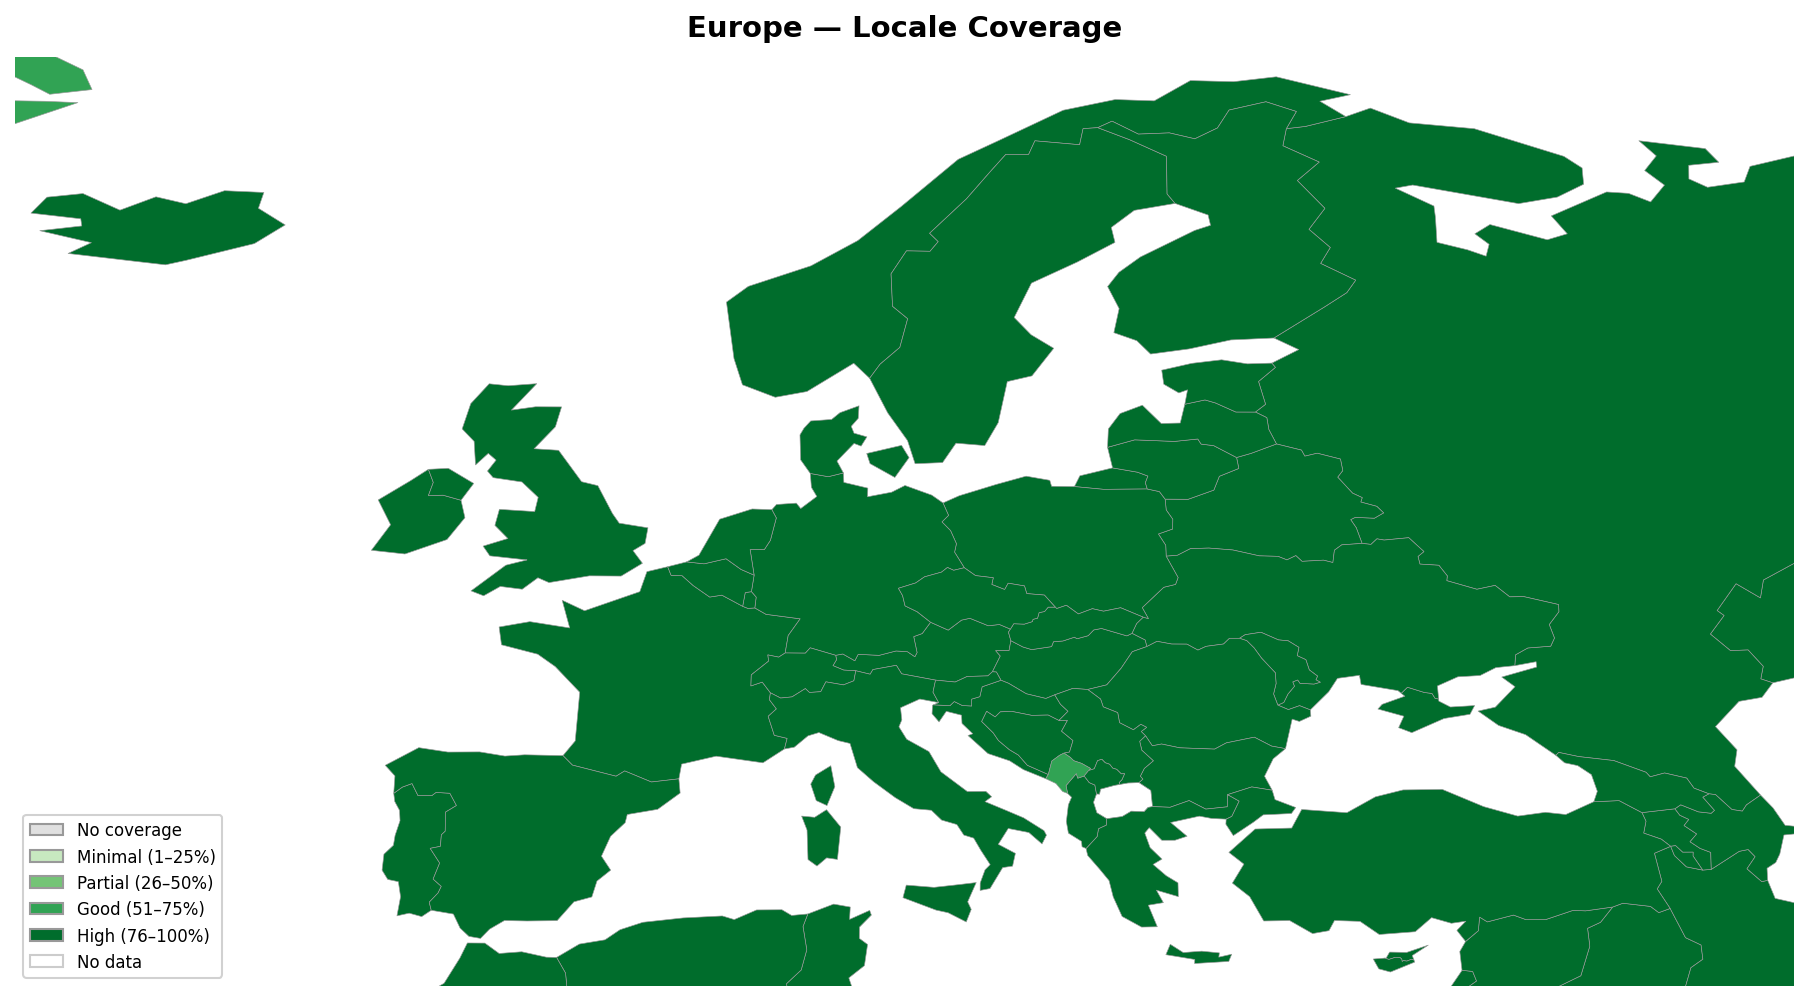
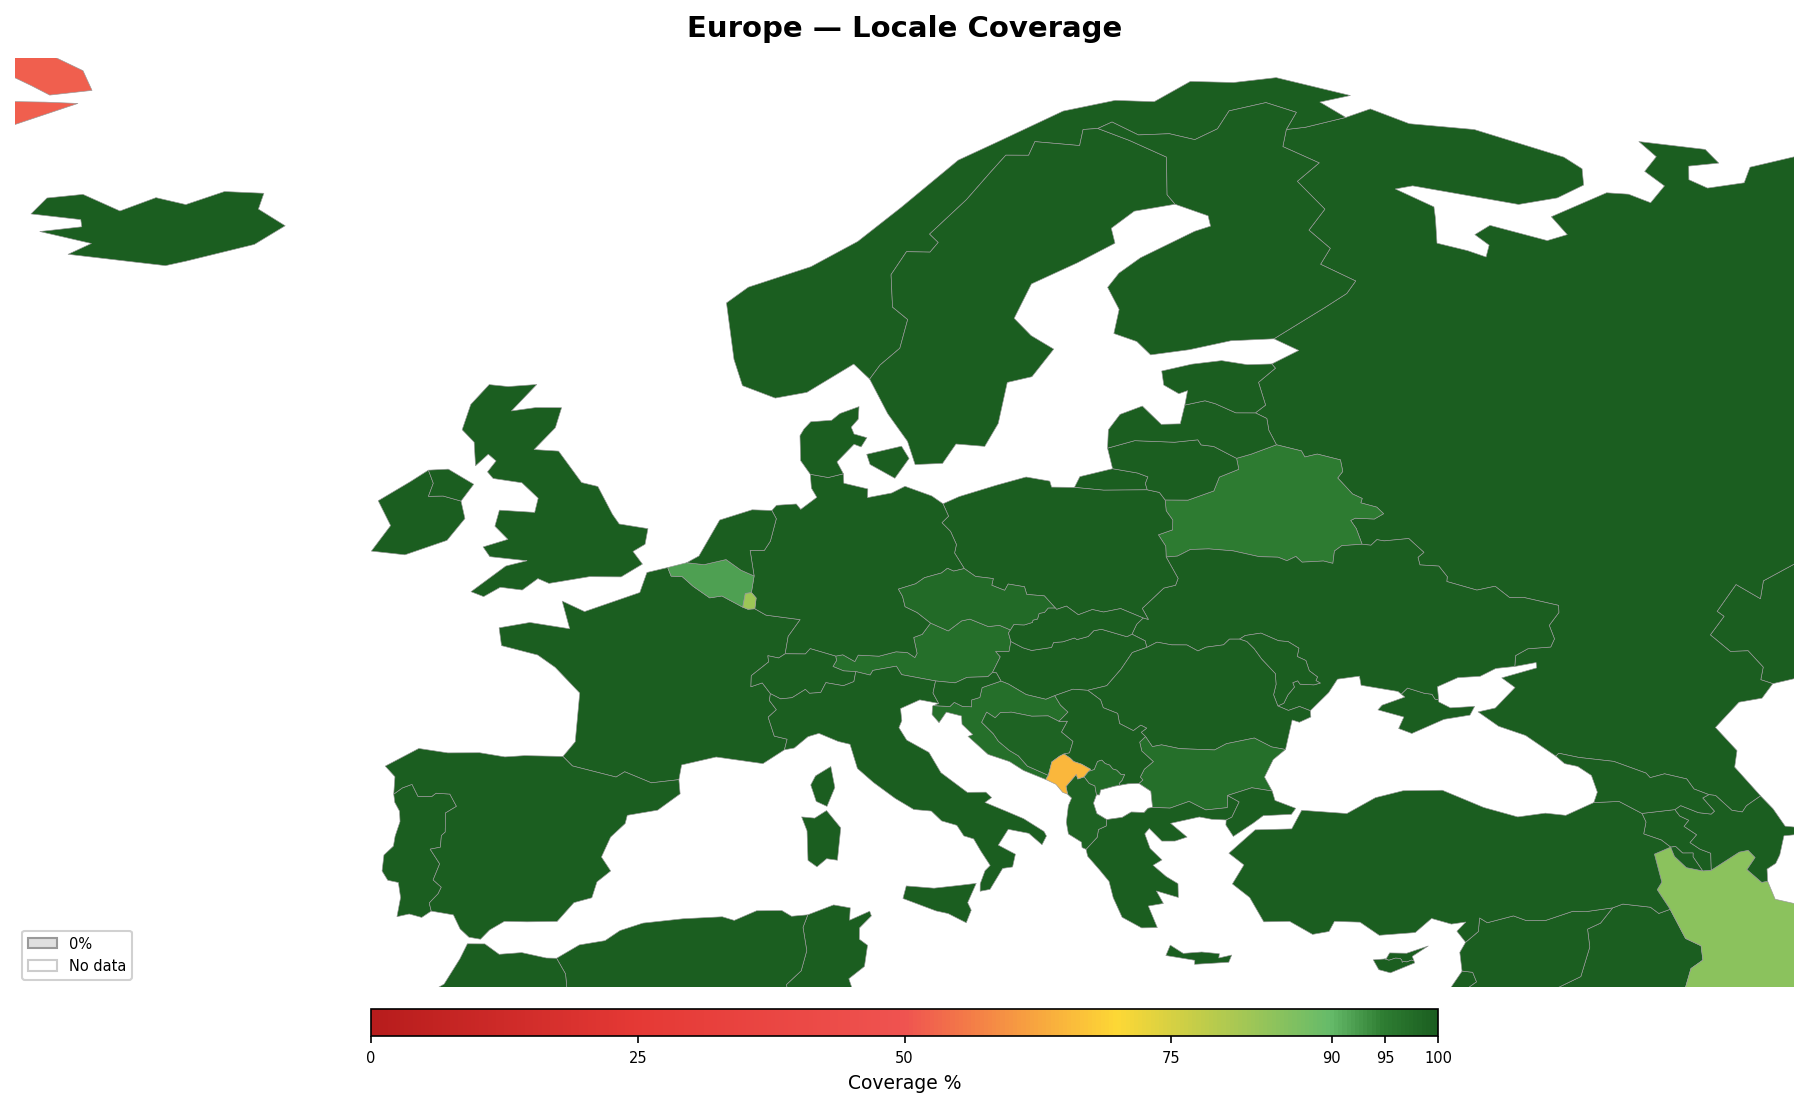
Switch to continuous red-to-green color scale for coverage maps
Replaces the 5-bin discrete scheme with a continuous gradient that
gives more detail in the high percentages: red shades for <50%,
red-to-green gradient for 50-90%, green shades for 90-100%.
Adds a colorbar legend showing the full scale.

diff --git a/tools/geography/generate.py b/tools/geography/generate.py
@@ -42,17 +42,24 @@ _ISO_OVERRIDES: dict[str, str] = {
 }
 
 # ---------------------------------------------------------------------------
-# Color scheme (5-bin discrete)
+# Color scheme — continuous gradient
+#
+#   0–50%  shades of red (dark → light)
+#  50–90%  red-to-green gradient
+#  90–100% shades of green (light → dark)
 # ---------------------------------------------------------------------------
 
-_BINS = [
-    (0.00, 0.00, "#e0e0e0", "No coverage"),
-    (0.01, 0.25, "#c7e9c0", "Minimal (1–25%)"),
-    (0.26, 0.50, "#74c476", "Partial (26–50%)"),
-    (0.51, 0.75, "#31a354", "Good (51–75%)"),
-    (0.76, 1.01, "#006d2c", "High (76–100%)"),
+_CMAP_STOPS = [
+    (0.00, "#b71c1c"),  # dark red
+    (0.25, "#e53935"),  # medium red
+    (0.50, "#ef5350"),  # light red
+    (0.70, "#fdd835"),  # yellow
+    (0.90, "#66bb6a"),  # light green
+    (0.95, "#2e7d32"),  # medium green
+    (1.00, "#1b5e20"),  # dark green
 ]
 
+_ZERO_COLOR = "#e0e0e0"  # gray for exactly 0%
 _NO_DATA_COLOR = "#ffffff"
 
 # ---------------------------------------------------------------------------
@@ -140,12 +147,26 @@ def _coverage(country: dict, supported: set[str]) -> float:
     return min(supported_share / max(total_share, 1.0), 1.0)
 
 
-def _coverage_bin(value: float) -> tuple[str, str]:
-    """Return (color, label) for a coverage value."""
-    for lo, hi, color, label in _BINS:
-        if lo <= value <= hi:
-            return color, label
-    return _BINS[-1][2], _BINS[-1][3]
+def _build_cmap():
+    """Build a LinearSegmentedColormap from _CMAP_STOPS."""
+    from matplotlib.colors import LinearSegmentedColormap
+    positions = [s[0] for s in _CMAP_STOPS]
+    hex_colors = [s[1] for s in _CMAP_STOPS]
+    return LinearSegmentedColormap.from_list(
+        "coverage", list(zip(positions, hex_colors)), N=256
+    )
+
+
+def _coverage_color(value: float) -> str:
+    """Return a hex color for a coverage value using the continuous scale."""
+    if value == 0.0:
+        return _ZERO_COLOR
+    import matplotlib
+    matplotlib.use("Agg")
+    from matplotlib.colors import rgb2hex
+    cmap = _build_cmap()
+    rgba = cmap(value)
+    return rgb2hex(rgba)
 
 
 # ---------------------------------------------------------------------------
@@ -204,8 +225,10 @@ def _render_map(
     matplotlib.use("Agg")
     import matplotlib.pyplot as plt
     from matplotlib.patches import Patch
-    import numpy as np
+    from matplotlib.colors import Normalize
+    from matplotlib.cm import ScalarMappable
 
+    cmap = _build_cmap()
     fig, ax = plt.subplots(1, 1, figsize=figsize, facecolor="white")
 
     # Draw countries with no data (white)
@@ -213,34 +236,40 @@ def _render_map(
     if not no_data.empty:
         no_data.plot(ax=ax, color=_NO_DATA_COLOR, edgecolor="#cccccc", linewidth=0.3)
 
-    # Draw countries by coverage bin
+    # Draw countries by continuous coverage color
     has_data = gdf[gdf["coverage"].notna()].copy()
     if not has_data.empty:
-        colors = []
-        for val in has_data["coverage"]:
-            color, _ = _coverage_bin(val)
-            colors.append(color)
-        has_data = has_data.copy()
-        has_data["fill_color"] = colors
-        has_data.plot(ax=ax, color=has_data["fill_color"], edgecolor="#999999", linewidth=0.3)
+        colors = [
+            _ZERO_COLOR if val == 0.0 else cmap(val)
+            for val in has_data["coverage"]
+        ]
+        has_data.plot(ax=ax, color=colors, edgecolor="#999999", linewidth=0.3)
 
     # Zoom to bounds
     if bounds:
         ax.set_xlim(bounds[0], bounds[1])
         ax.set_ylim(bounds[2], bounds[3])
 
-    # Legend
-    legend_elements = [
-        Patch(facecolor=color, edgecolor="#999999", label=label)
-        for _, _, color, label in _BINS
-    ]
-    legend_elements.append(
-        Patch(facecolor=_NO_DATA_COLOR, edgecolor="#cccccc", label="No data")
+    # Colorbar
+    sm = ScalarMappable(cmap=cmap, norm=Normalize(vmin=0, vmax=100))
+    sm.set_array([])
+    cbar = fig.colorbar(
+        sm, ax=ax, orientation="horizontal", fraction=0.03, pad=0.02,
+        aspect=40, shrink=0.6,
     )
+    cbar.set_label("Coverage %", fontsize=9)
+    cbar.set_ticks([0, 25, 50, 75, 90, 95, 100])
+    cbar.ax.tick_params(labelsize=7)
+
+    # Small legend for special entries only
+    legend_elements = [
+        Patch(facecolor=_ZERO_COLOR, edgecolor="#999999", label="0%"),
+        Patch(facecolor=_NO_DATA_COLOR, edgecolor="#cccccc", label="No data"),
+    ]
     ax.legend(
         handles=legend_elements,
         loc="lower left",
-        fontsize=8,
+        fontsize=7,
         framealpha=0.9,
     )
 
